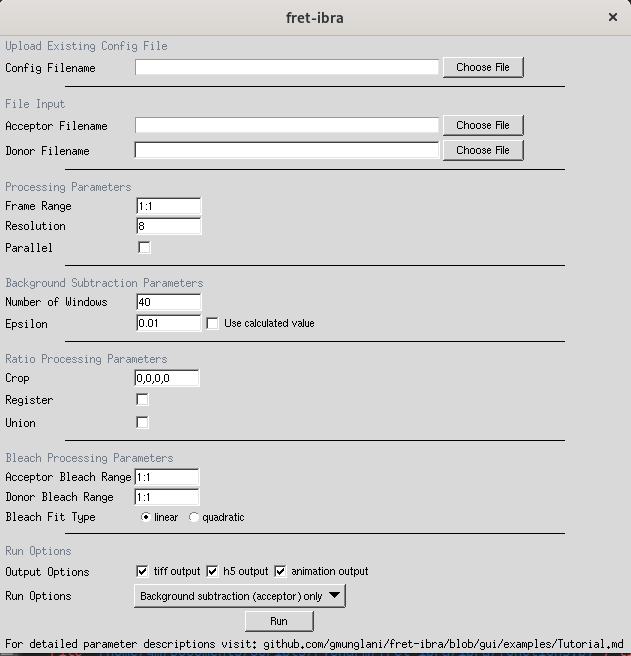
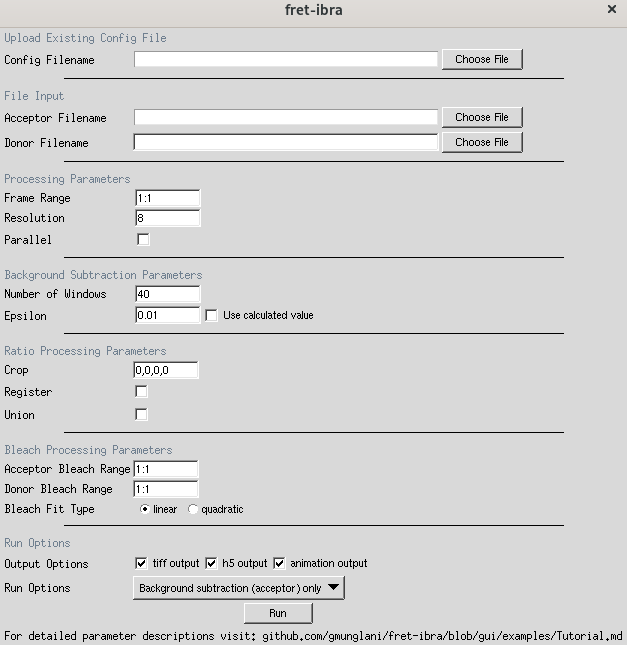
Updated defaults

diff --git a/ibra/gui.py b/ibra/gui.py
@@ -344,7 +344,7 @@ def main_gui():
     frm17.pack(side="top",fill="x",expand=True)
     ttk.Button(frm17, text="Run", command=lambda:get_variables(dire,con_str,acc_str,don_str,range_str,res_str,par_state,nwindow_str\
                                                                   ,eps_entry_str,eps_check_str,crop_str,register_state,union_state,acc_bleach_str\
-                                                                  ,don_bleach_str,bleach_fit,tiff_state,h5_state,anim_state,option_dict,option_line), width=10).grid(row=5,column=1,padx=240)
+                                                                  ,don_bleach_str,bleach_fit,tiff_state,h5_state,anim_state,option_dict,option_line), width=10).grid(row=5,column=1,padx=270)
 
     frm_head7 = tk.Frame(root,padx=5,pady=1)
     frm_head7.pack(side="top",fill="x",expand=True)

diff --git a/examples/Tutorial.md b/examples/Tutorial.md
@@ -93,9 +93,9 @@ To improve the usability of the toolkit, a simple GUI can be used to fill in the
 ```bash
 ./ibra.py -g
 ```
-The GUI parameters are identical to the config file with the notable addition of a config file upload parameter. The specified configuration parameters can be run using the *Run* button present at the bottom of the GUI. When the *Run* button is pressed, a config file with the chosen set of parameters is saved in the */ibra* folder. This saved config file can later be directly run using the *Config Filename* field with the desired *Output Options*.
+The GUI parameters are identical to those in the config file with the addition of an option use an existing config file. The desired configuration can be run using the *Run* button at the bottom of the GUI. When the *Run* button is pressed, a config file with the chosen set of parameters is saved in */ibra*. This saved config file can later be directly run using the *Config Filename* field along with the desired *Output Options*.
+
+### GUI default setting
+![GUI](images/GUI_example.png)
 
 It should be noted that even when using the GUI, progress and error messages will only be displayed in the run terminal.
-
-### GUI example
-![GUI](images/GUI_example.png)
